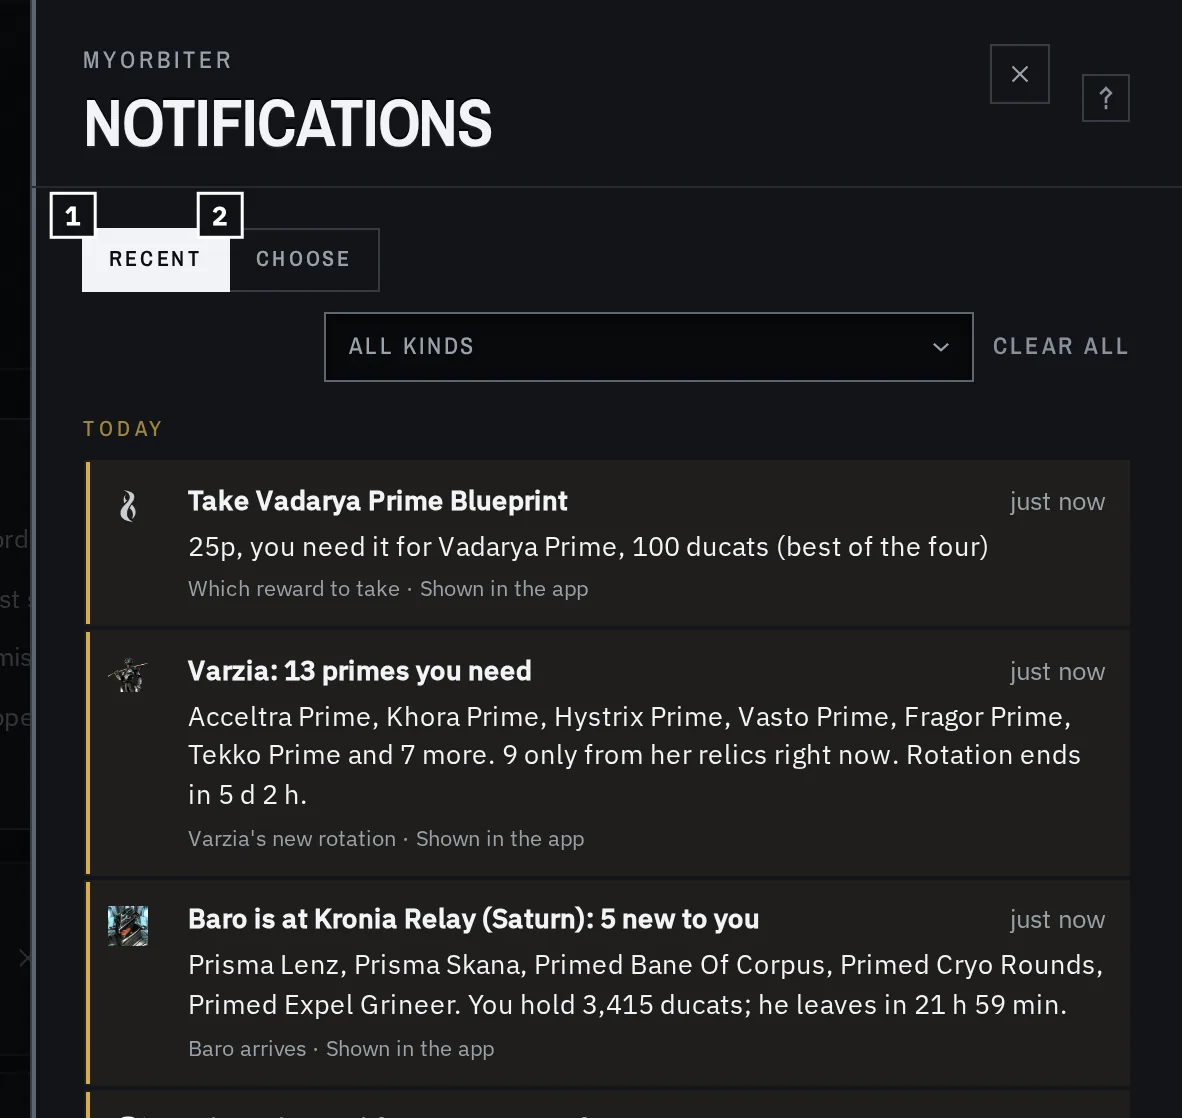
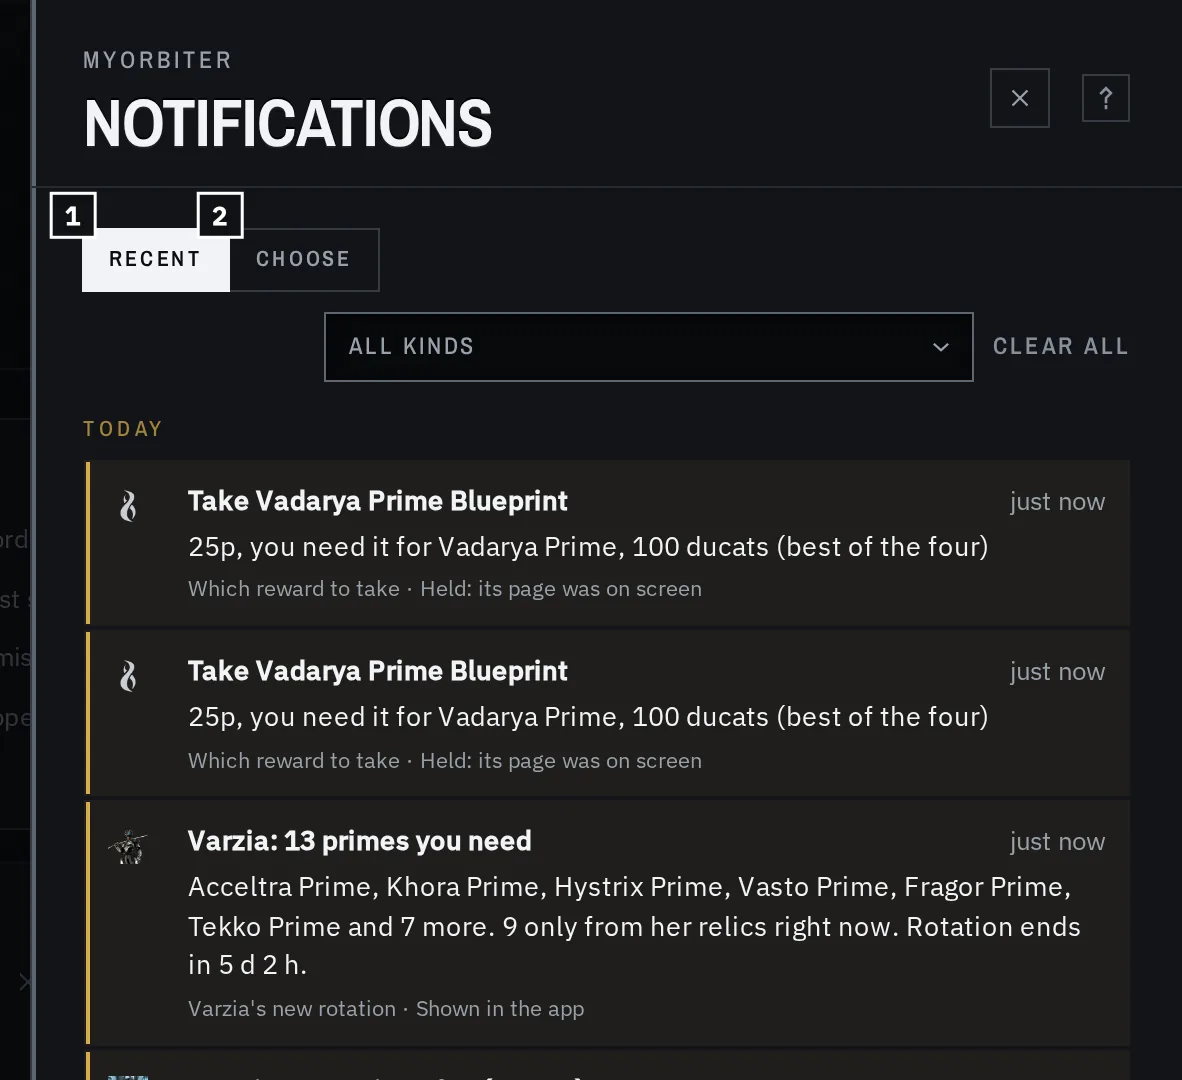
Sheets: the close cross and the "?" on one line
The header's controls now sit on the middle of the title's block, so the 24 px "?"
and the 30 px close share one middle line.

diff --git a/src/lib/ui/Sheet.svelte b/src/lib/ui/Sheet.svelte
@@ -78,11 +78,11 @@
   /* Kept: shut, it's invisible and takes no clicks (visibility turns off once the slide-out ends). */
   .sheet.keep { transform: translateX(40px); opacity: 0; visibility: hidden; box-shadow: inset 2px 0 0 var(--rule-control); transition: transform 100ms var(--out), opacity 100ms var(--out), visibility 0s linear 100ms; }
   .sheet.keep.on { transform: none; opacity: 1; visibility: visible; box-shadow: -1.5rem 0 4rem rgb(0 0 0 / 45%), inset 2px 0 0 var(--rule-control); transition: transform var(--settle) var(--out), opacity var(--settle) var(--out), visibility 0s, box-shadow 0s linear var(--settle); }
-  header { display: flex; justify-content: space-between; align-items: flex-start; gap: 1rem; padding: 1.4rem 1.6rem 1.1rem; border-bottom: 1px solid var(--rule); }
+  /* The "?" and Close on one line, the middle of the title's block. */
+  header { display: flex; justify-content: space-between; align-items: center; gap: 1rem; padding: 1.4rem 1.6rem 1.1rem; border-bottom: 1px solid var(--rule); }
   header .register { color: var(--platinum-dim); margin-bottom: .45rem; }
   /* The title takes the room, so the "?" sits beside Close at the right end. */
   header > div:first-child { flex: 1; min-width: 0; }
-  header > :global(.helpmark) { align-self: center; }
   h2 { font-size: 2.1rem; }
   .close { padding: .5rem; line-height: 0; }
   /* One column no wider than the sheet: a long unbreakable line (a path) can't widen every section
